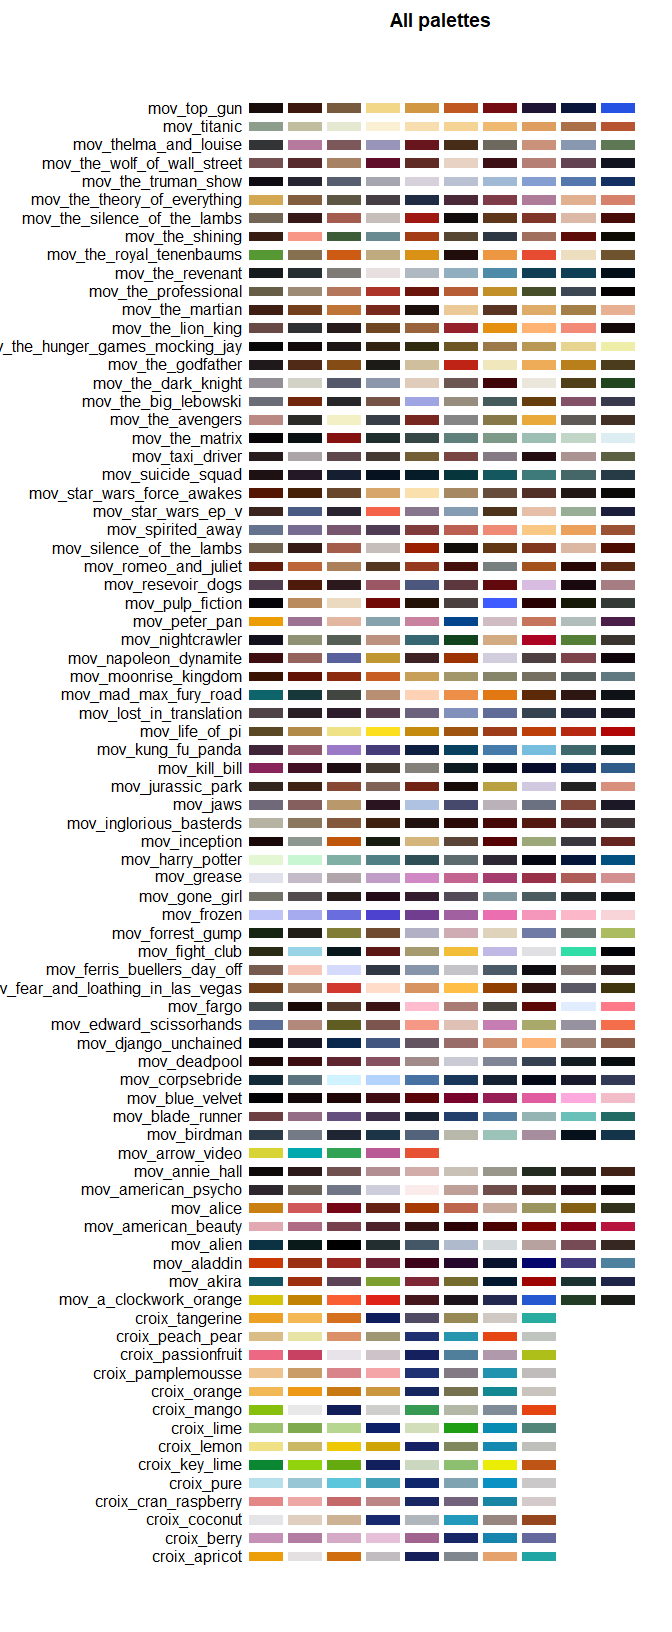
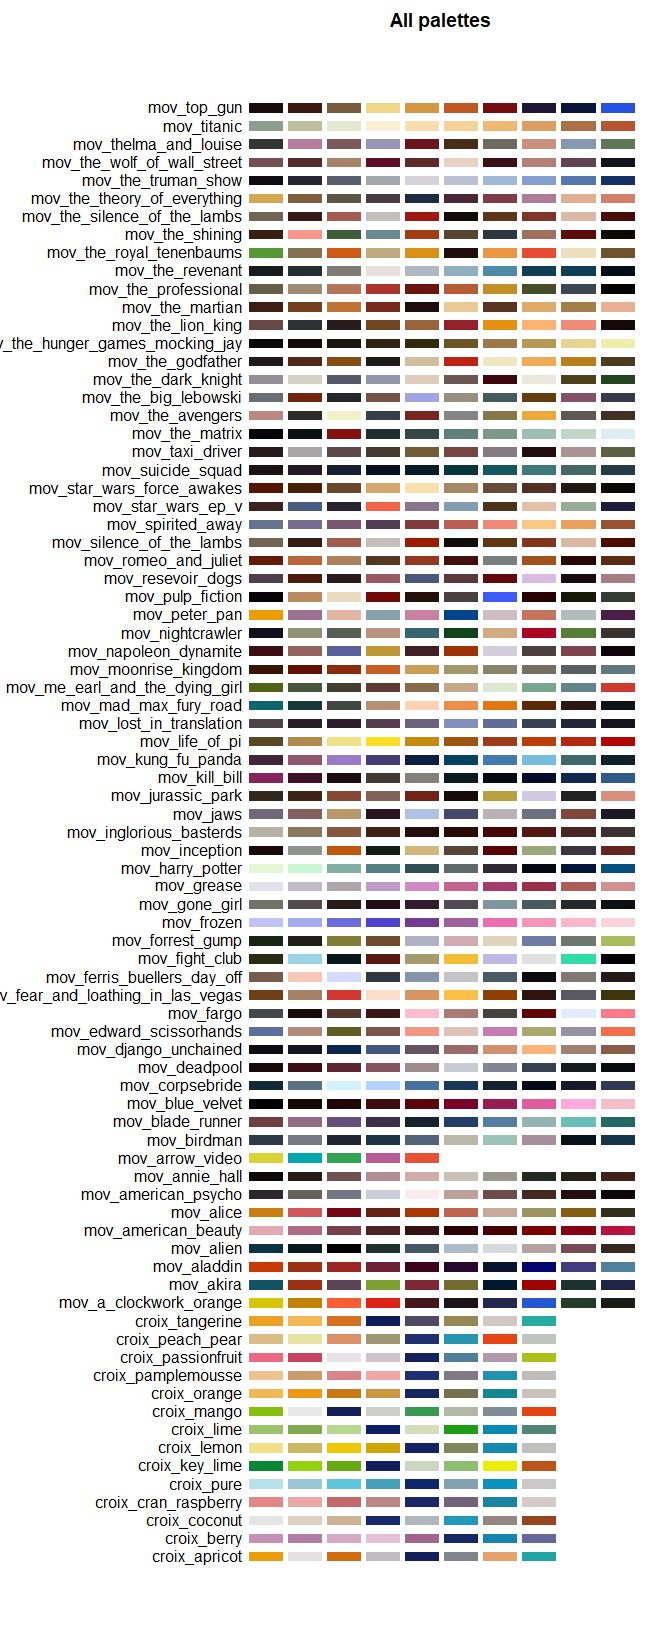
Update color plot

diff --git a/README.md b/README.md
@@ -77,38 +77,39 @@ names(croix::croix_pal_data)
 #> [46] "mov_life_of_pi"                    
 #> [47] "mov_lost_in_translation"           
 #> [48] "mov_mad_max_fury_road"             
-#> [49] "mov_moonrise_kingdom"              
-#> [50] "mov_napoleon_dynamite"             
-#> [51] "mov_nightcrawler"                  
-#> [52] "mov_peter_pan"                     
-#> [53] "mov_pulp_fiction"                  
-#> [54] "mov_resevoir_dogs"                 
-#> [55] "mov_romeo_and_juliet"              
-#> [56] "mov_silence_of_the_lambs"          
-#> [57] "mov_spirited_away"                 
-#> [58] "mov_star_wars_ep_v"                
-#> [59] "mov_star_wars_force_awakes"        
-#> [60] "mov_suicide_squad"                 
-#> [61] "mov_taxi_driver"                   
-#> [62] "mov_the_matrix"                    
-#> [63] "mov_the_avengers"                  
-#> [64] "mov_the_big_lebowski"              
-#> [65] "mov_the_dark_knight"               
-#> [66] "mov_the_godfather"                 
-#> [67] "mov_the_hunger_games_mocking_jay"  
-#> [68] "mov_the_lion_king"                 
-#> [69] "mov_the_martian"                   
-#> [70] "mov_the_professional"              
-#> [71] "mov_the_revenant"                  
-#> [72] "mov_the_royal_tenenbaums"          
-#> [73] "mov_the_shining"                   
-#> [74] "mov_the_silence_of_the_lambs"      
-#> [75] "mov_the_theory_of_everything"      
-#> [76] "mov_the_truman_show"               
-#> [77] "mov_the_wolf_of_wall_street"       
-#> [78] "mov_thelma_and_louise"             
-#> [79] "mov_titanic"                       
-#> [80] "mov_top_gun"
+#> [49] "mov_me_earl_and_the_dying_girl"    
+#> [50] "mov_moonrise_kingdom"              
+#> [51] "mov_napoleon_dynamite"             
+#> [52] "mov_nightcrawler"                  
+#> [53] "mov_peter_pan"                     
+#> [54] "mov_pulp_fiction"                  
+#> [55] "mov_resevoir_dogs"                 
+#> [56] "mov_romeo_and_juliet"              
+#> [57] "mov_silence_of_the_lambs"          
+#> [58] "mov_spirited_away"                 
+#> [59] "mov_star_wars_ep_v"                
+#> [60] "mov_star_wars_force_awakes"        
+#> [61] "mov_suicide_squad"                 
+#> [62] "mov_taxi_driver"                   
+#> [63] "mov_the_matrix"                    
+#> [64] "mov_the_avengers"                  
+#> [65] "mov_the_big_lebowski"              
+#> [66] "mov_the_dark_knight"               
+#> [67] "mov_the_godfather"                 
+#> [68] "mov_the_hunger_games_mocking_jay"  
+#> [69] "mov_the_lion_king"                 
+#> [70] "mov_the_martian"                   
+#> [71] "mov_the_professional"              
+#> [72] "mov_the_revenant"                  
+#> [73] "mov_the_royal_tenenbaums"          
+#> [74] "mov_the_shining"                   
+#> [75] "mov_the_silence_of_the_lambs"      
+#> [76] "mov_the_theory_of_everything"      
+#> [77] "mov_the_truman_show"               
+#> [78] "mov_the_wolf_of_wall_street"       
+#> [79] "mov_thelma_and_louise"             
+#> [80] "mov_titanic"                       
+#> [81] "mov_top_gun"
 ```
 
 You can get a vector of hex color codes, simply use the following:
@@ -152,4 +153,4 @@ croix::croix_all()
 
 -----
 
-*Last updated:* 2019-02-17
+*Last updated:* 2019-02-18
